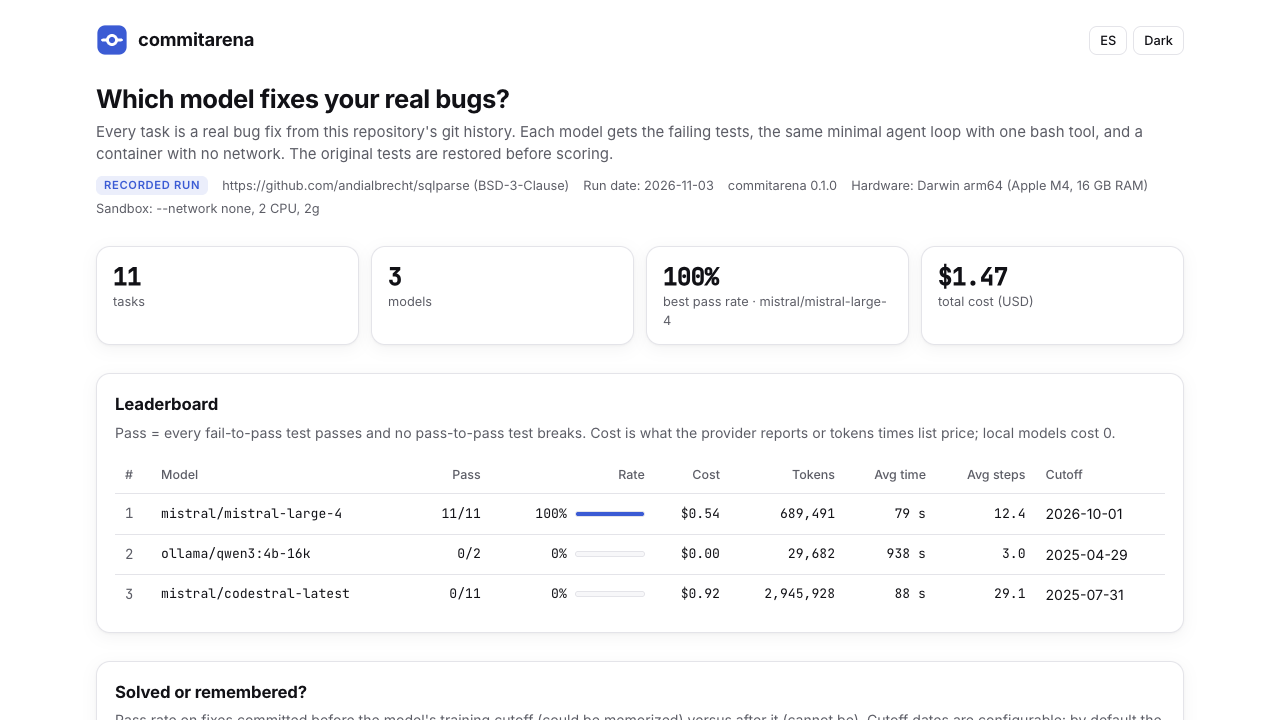
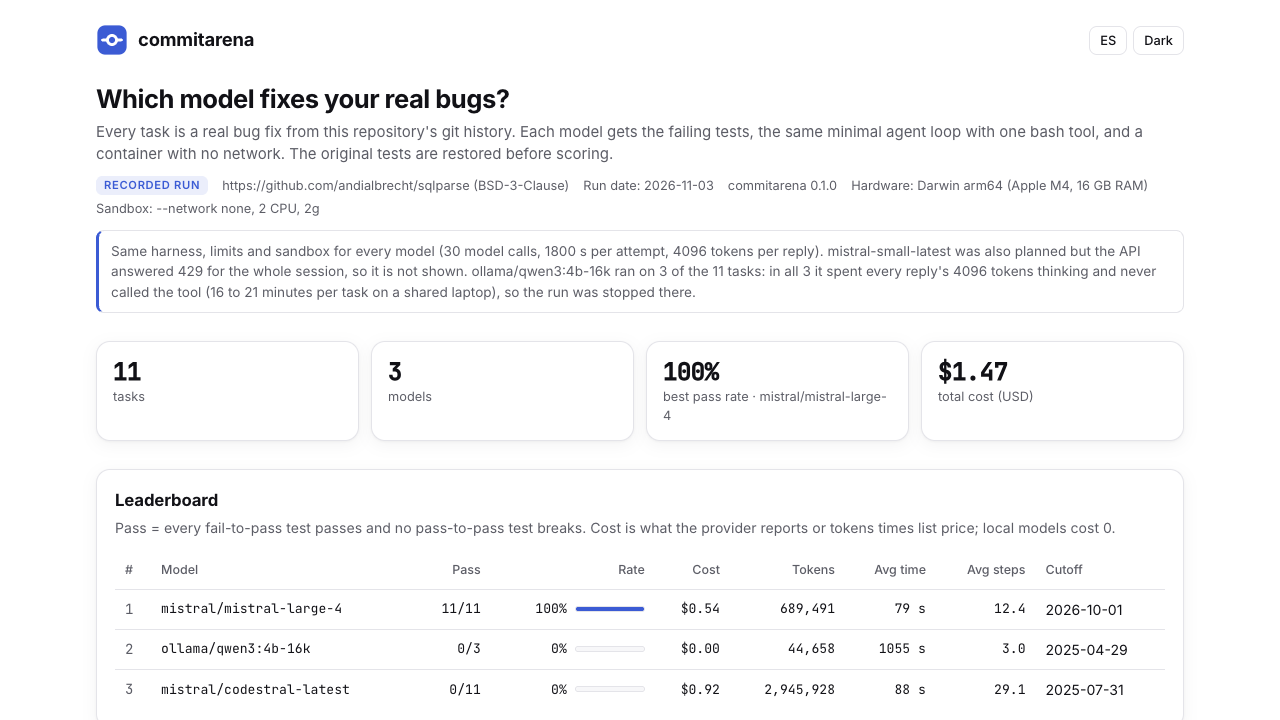
feat: final recorded demo with run notes, README reading guide

diff --git a/src/commitarena/report_template.html b/src/commitarena/report_template.html
@@ -116,6 +116,7 @@ select { font: .85rem var(--sans); color: var(--text); background: var(--surface
 .pane pre .h { color: var(--accent); }
 .pane pre .f { color: var(--muted); font-weight: 600; }
 .empty { color: var(--muted); padding: 12px; font-size: .85rem; }
+.note { margin: 12px 0 0; padding: 10px 12px; border: 1px solid var(--border); border-left: 3px solid var(--accent); border-radius: 8px; font-size: .85rem; color: var(--muted); background: var(--surface); }
 .meta { color: var(--muted); font-size: .8rem; display: flex; flex-wrap: wrap; gap: 4px 14px; }
 a { color: var(--accent); }
 footer { color: var(--muted); font-size: .78rem; border-top: 1px solid var(--border); padding-top: 14px; }
@@ -161,6 +162,7 @@ footer { color: var(--muted); font-size: .78rem; border-top: 1px solid var(--bor
     <h1 data-i="title"></h1>
     <p class="sub" data-i="lead"></p>
     <div class="meta" id="meta" style="margin-top:10px"></div>
+    <p class="note" id="note" style="display:none"></p>
   </section>
 
   <section class="kpis" id="kpis"></section>
@@ -295,6 +297,9 @@ footer { color: var(--muted); font-size: .78rem; border-top: 1px solid var(--bor
     if (m.hardware) metaBits.push("<span>" + esc(t("hw")) + ": " + esc(m.hardware) + "</span>");
     if (sb.network) metaBits.push("<span>" + esc(t("sandbox")) + ": --network " + esc(sb.network) + ", " + esc(sb.cpus) + " CPU, " + esc(sb.memory) + "</span>");
     document.getElementById("meta").innerHTML = metaBits.join("");
+    var note = m["note_" + lang] || m.note || "";
+    var noteEl = document.getElementById("note");
+    noteEl.textContent = note; noteEl.style.display = note ? "block" : "none";
 
     var best = D.board.length ? D.board[0] : null;
     var total = D.board.reduce(function (a, b) { return a + b.cost; }, 0);

diff --git a/scripts/record_demo.py b/scripts/record_demo.py
@@ -14,6 +14,20 @@ DEMO = ROOT / "src" / "commitarena" / "demo"
 TRAJ = ROOT / "docs" / "demo-run" / "trajectories"
 
 
+NOTE_EN = (
+    "Same harness, limits and sandbox for every model (30 model calls, 1800 s per attempt, 4096 tokens per reply). "
+    "mistral-small-latest was also planned but the API answered 429 for the whole session, so it is not shown. "
+    "ollama/qwen3:4b-16k ran on 3 of the 11 tasks: in all 3 it spent every reply's 4096 tokens thinking and never "
+    "called the tool (16 to 21 minutes per task on a shared laptop), so the run was stopped there."
+)
+NOTE_ES = (
+    "Mismo arnés, límites y sandbox para todos los modelos (30 llamadas, 1800 s por intento, 4096 tokens por respuesta). "
+    "También estaba previsto mistral-small-latest, pero la API respondió 429 toda la sesión y no aparece. "
+    "ollama/qwen3:4b-16k corrió 3 de las 11 tareas: en las 3 gastó los 4096 tokens de cada respuesta pensando y nunca "
+    "llamó a la herramienta (de 16 a 21 minutos por tarea en un portátil compartido), así que la ejecución se paró ahí."
+)
+
+
 def main(run_dirs: list[Path]) -> None:
     results, models, cutoffs, metas = [], set(), {}, []
     for d in run_dirs:
@@ -37,6 +51,8 @@ def main(run_dirs: list[Path]) -> None:
             "cutoffs": cutoffs,
             "created_at": min(m["created_at"] for m in metas),
             "updated_at": max(m["updated_at"] for m in metas),
+            "note_en": NOTE_EN,
+            "note_es": NOTE_ES,
         }
     )
     DEMO.mkdir(parents=True, exist_ok=True)

diff --git a/README.es.md b/README.es.md
@@ -72,13 +72,20 @@ Leaderboard
 ┃ model                    ┃  pass ┃ rate ┃ before cutoff ┃ after cutoff ┃ cost $ ┃    tokens ┃ avg s ┃ avg steps ┃
 ┡━━━━━━━━━━━━━━━━━━━━━━━━━━╇━━━━━━━╇━━━━━━╇━━━━━━━━━━━━━━━╇━━━━━━━━━━━━━━╇━━━━━━━━╇━━━━━━━━━━━╇━━━━━━━╇━━━━━━━━━━━┩
 │ mistral/mistral-large-4  │ 11/11 │ 100% │           8/8 │          3/3 │ 0.5412 │   689,491 │    79 │      12.4 │
-│ ollama/qwen3:4b-16k      │   0/2 │   0% │             - │          0/2 │ 0.0000 │    29,682 │   938 │       3.0 │
+│ ollama/qwen3:4b-16k      │   0/3 │   0% │             - │          0/3 │ 0.0000 │    44,658 │  1055 │       3.0 │
 │ mistral/codestral-latest │  0/11 │   0% │           0/4 │          0/7 │ 0.9241 │ 2,945,928 │    88 │      29.1 │
 └──────────────────────────┴───────┴──────┴───────────────┴──────────────┴────────┴───────────┴───────┴───────────┘
 ```
 <!-- demo:end -->
 
 <p align="center"><a href="https://diegoperezg7.github.io/commitarena/"><img src="docs/assets/report-dark.png" alt="report" width="760"></a></p>
+
+Cómo leerlo: con el mismo prompt, herramienta, límites y sandbox, Mistral Large 4 arregló los 11 bugs,
+incluidos los 3 posteriores a su lanzamiento (octubre de 2026), así que los resolvió, no los recordó.
+Codestral gastó más tokens y más dinero y no arregló ninguno: casi siempre repetía el mismo `sed` o `grep`
+hasta el límite de 30 llamadas. qwen3:4b en Ollama corrió 3 tareas y nunca llamó a la herramienta, porque
+gastaba los 4096 tokens de cada respuesta pensando. mistral-small-latest respondió 429 toda la sesión y no
+aparece. Tres tareas después del corte es una muestra pequeña: es una señal, no un veredicto.
 
 ## Úsalo en tu repo
 

diff --git a/README.md b/README.md
@@ -71,13 +71,20 @@ Leaderboard
 ┃ model                    ┃  pass ┃ rate ┃ before cutoff ┃ after cutoff ┃ cost $ ┃    tokens ┃ avg s ┃ avg steps ┃
 ┡━━━━━━━━━━━━━━━━━━━━━━━━━━╇━━━━━━━╇━━━━━━╇━━━━━━━━━━━━━━━╇━━━━━━━━━━━━━━╇━━━━━━━━╇━━━━━━━━━━━╇━━━━━━━╇━━━━━━━━━━━┩
 │ mistral/mistral-large-4  │ 11/11 │ 100% │           8/8 │          3/3 │ 0.5412 │   689,491 │    79 │      12.4 │
-│ ollama/qwen3:4b-16k      │   0/2 │   0% │             - │          0/2 │ 0.0000 │    29,682 │   938 │       3.0 │
+│ ollama/qwen3:4b-16k      │   0/3 │   0% │             - │          0/3 │ 0.0000 │    44,658 │  1055 │       3.0 │
 │ mistral/codestral-latest │  0/11 │   0% │           0/4 │          0/7 │ 0.9241 │ 2,945,928 │    88 │      29.1 │
 └──────────────────────────┴───────┴──────┴───────────────┴──────────────┴────────┴───────────┴───────┴───────────┘
 ```
 <!-- demo:end -->
 
 <p align="center"><a href="https://diegoperezg7.github.io/commitarena/"><img src="docs/assets/report-light.png" alt="report" width="760"></a></p>
+
+How to read it: with the same prompt, tool, limits and sandbox, Mistral Large 4 fixed all 11 bugs, including
+the 3 committed after its release (October 2026), so it was solving, not recalling. Codestral spent more
+tokens and money and fixed none: it usually looped on the same `sed` or `grep` until the 30-call limit.
+qwen3:4b on Ollama ran 3 tasks and never called the tool, because it spent each reply's 4096 tokens thinking.
+mistral-small-latest answered 429 for the whole session and is not shown. Three tasks after a cutoff is a
+small sample; treat the split as a signal, not a verdict.
 
 ## Use it on your repo
 
